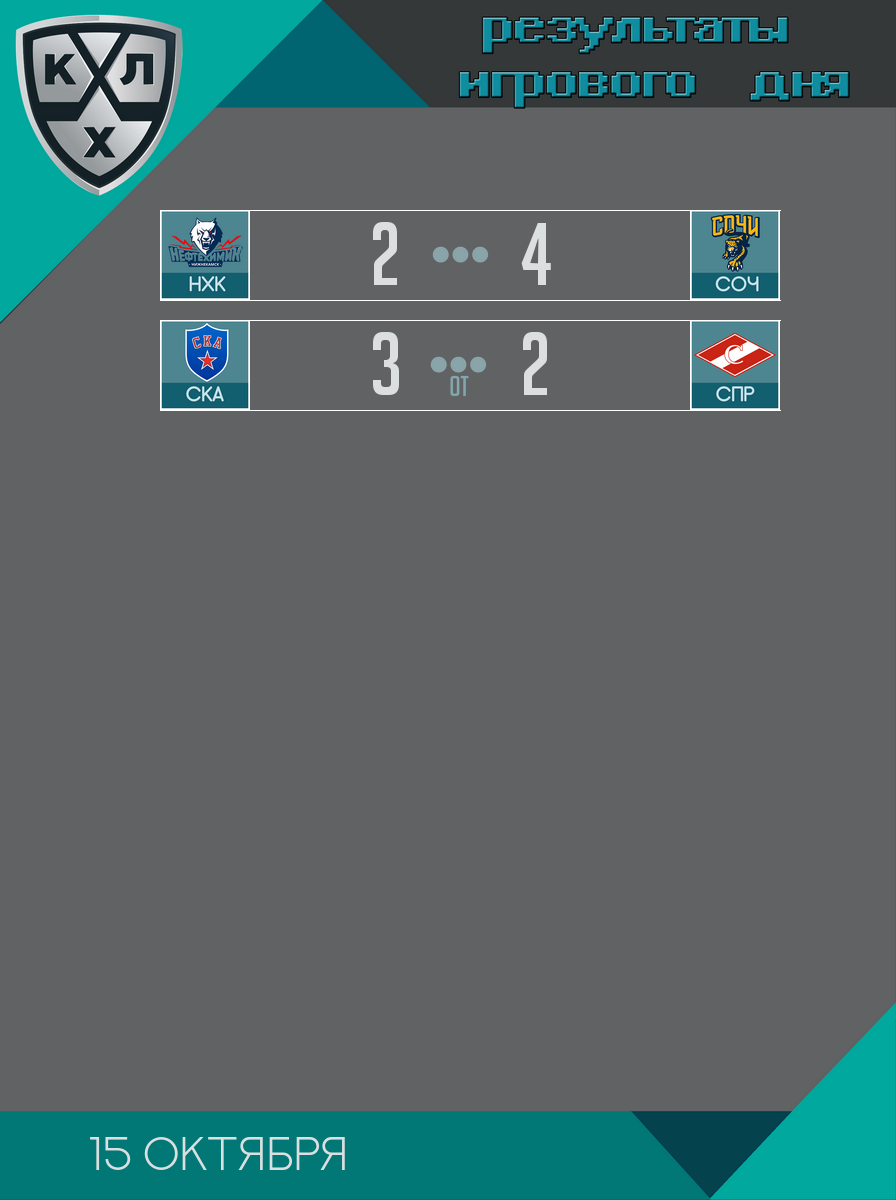
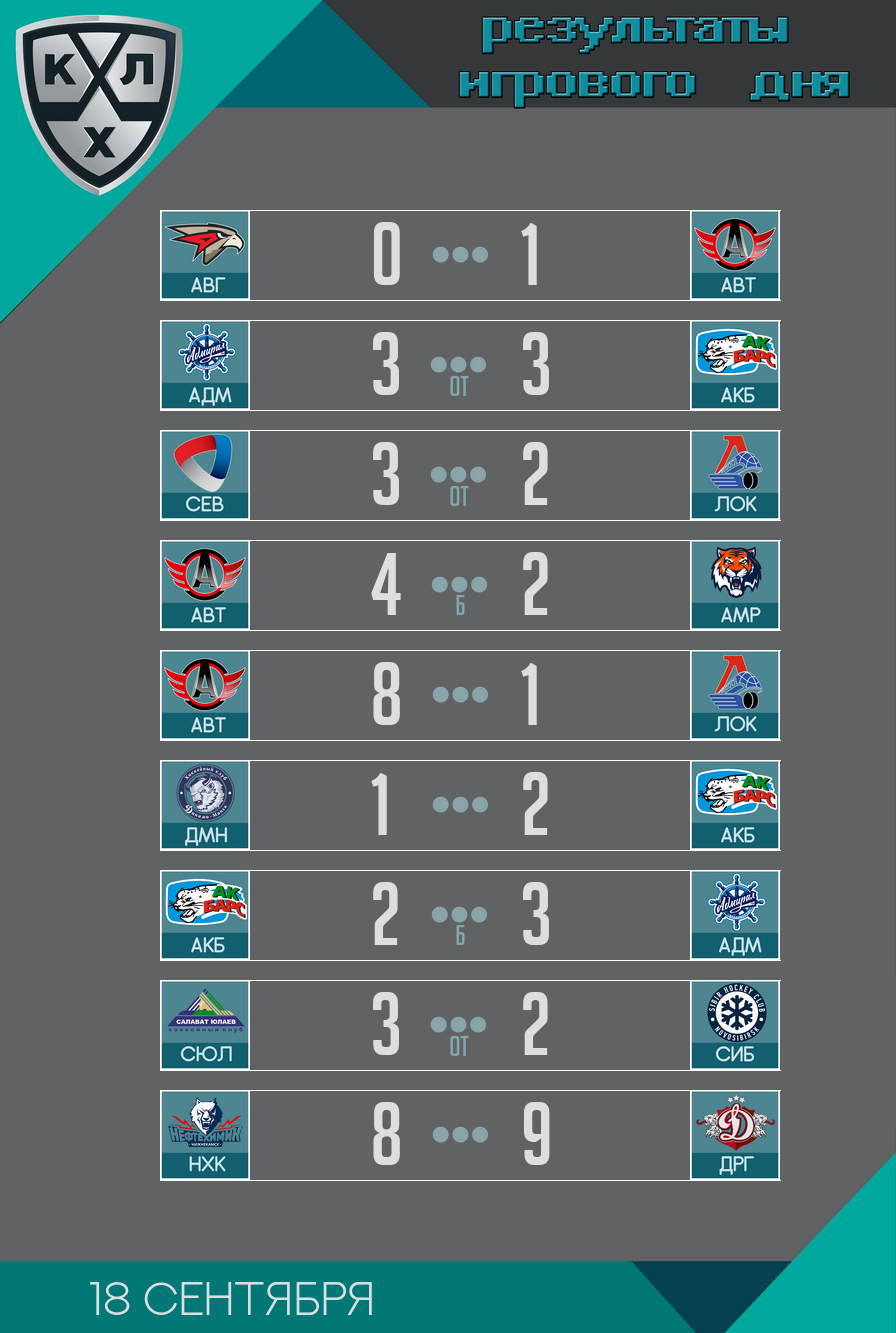
final_score_big.png

diff --git a/views/module3/poster_final_score.php b/views/module3/poster_final_score.php
@@ -49,6 +49,8 @@ include(Yii::getAlias('@app/web/my_config/module2.php'));
         ['x_logo1'=>160, 'y_logo1'=>210+($step*6), 'x_logo2'=>690, 'y_logo2'=>210+($step*6), 'x_line_up_1'=>250, 'y_line_up_1'=>210+($step*6), 'x_line_up_2'=>780, 'y_line_up_2'=>210+($step*6), 'x_line_down_1'=>250, 'y_line_down_1'=>300+($step*6), 'x_line_down_2'=>780, 'y_line_down_2'=>300+($step*6),],
         // матч 8
         ['x_logo1'=>160, 'y_logo1'=>210+($step*7), 'x_logo2'=>690, 'y_logo2'=>210+($step*7), 'x_line_up_1'=>250, 'y_line_up_1'=>210+($step*7), 'x_line_up_2'=>780, 'y_line_up_2'=>210+($step*7), 'x_line_down_1'=>250, 'y_line_down_1'=>300+($step*7), 'x_line_down_2'=>780, 'y_line_down_2'=>300+($step*7),],
+        // матч 9
+        ['x_logo1'=>160, 'y_logo1'=>210+($step*8), 'x_logo2'=>690, 'y_logo2'=>210+($step*8), 'x_line_up_1'=>250, 'y_line_up_1'=>210+($step*8), 'x_line_up_2'=>780, 'y_line_up_2'=>210+($step*8), 'x_line_down_1'=>250, 'y_line_down_1'=>300+($step*8), 'x_line_down_2'=>780, 'y_line_down_2'=>300+($step*8),],
     ];
     //********************************************************
     // данные, получаемые из $_GET массива из вида
@@ -61,6 +63,7 @@ include(Yii::getAlias('@app/web/my_config/module2.php'));
     //********************************************************
     // загрузка изображения - шаблона
     $image = imagecreatefrompng('images\module3\template_final_score\final_score.png');
+    if ($data_poster['amount'] == 9){$image = imagecreatefrompng('images\module3\template_final_score\final_score_big.png');}
      // установка цвета
     $color_date = imagecolorallocate($image, 196,199,200);
     $color_time = imagecolorallocate($image, 112,214,243);
@@ -118,8 +121,11 @@ include(Yii::getAlias('@app/web/my_config/module2.php'));
     //вставка даты
     $date = $data_poster['day_game'];
     $month = $data_poster['month_game'];
-    imagettftext($image, 35, 0, 90, 1170, $color_text , $font_date, $date.' '.$month);
-    
+    if ($data_poster['amount'] == 9){
+        imagettftext($image, 35, 0, 90, 1315, $color_text , $font_date, $date.' '.$month);;
+    }else{
+        imagettftext($image, 35, 0, 90, 1170, $color_text , $font_date, $date.' '.$month);    
+    }
                
     // сохранение файла
     imagepng($image,'images\module3\new\final_score_.png',9);           
